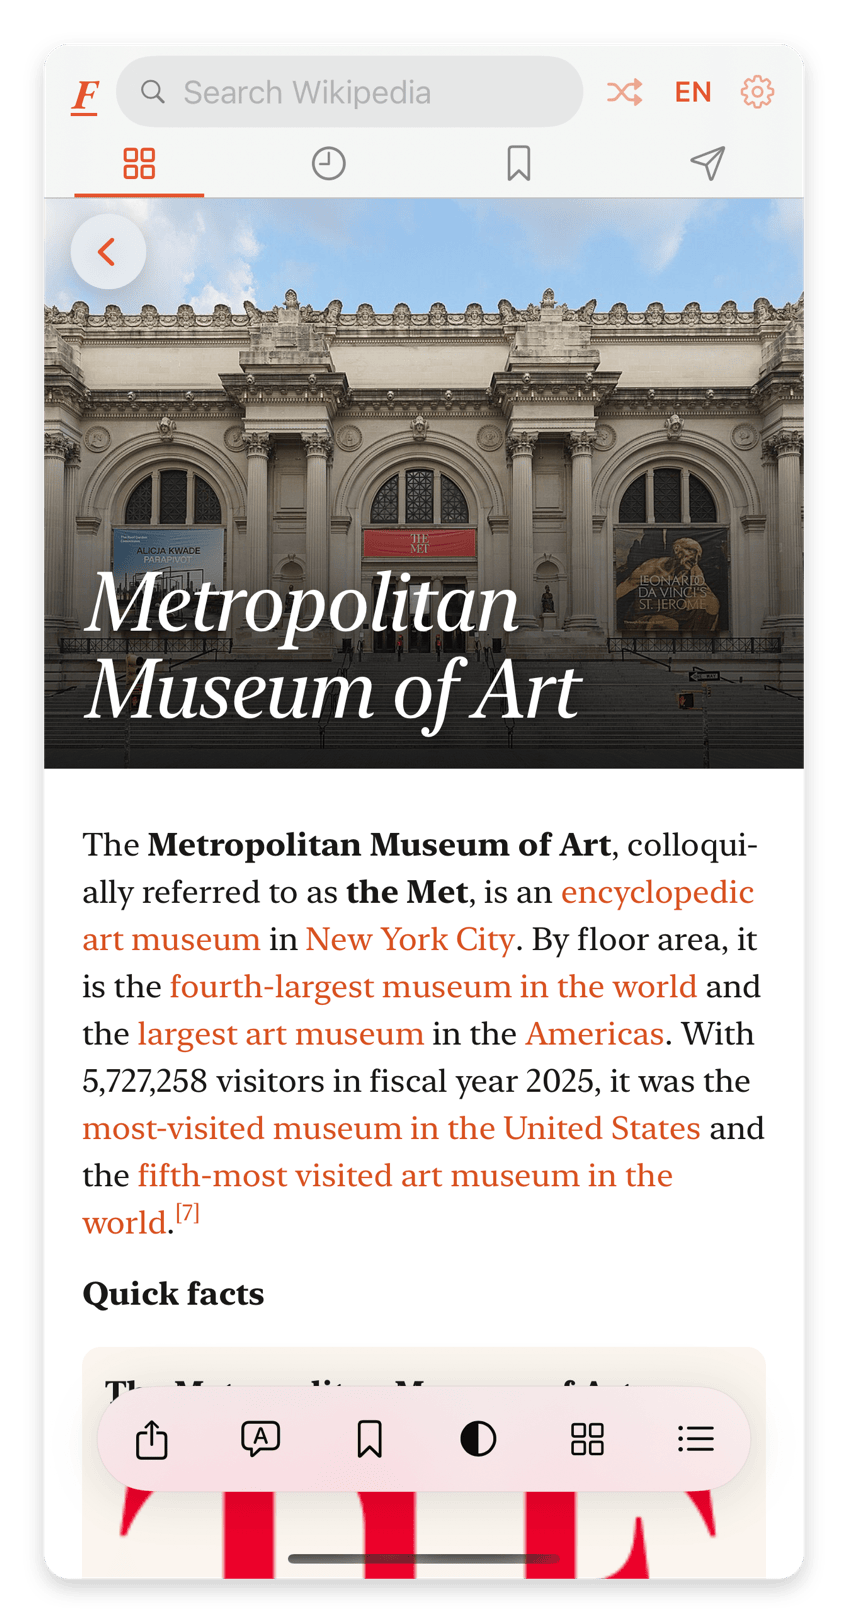
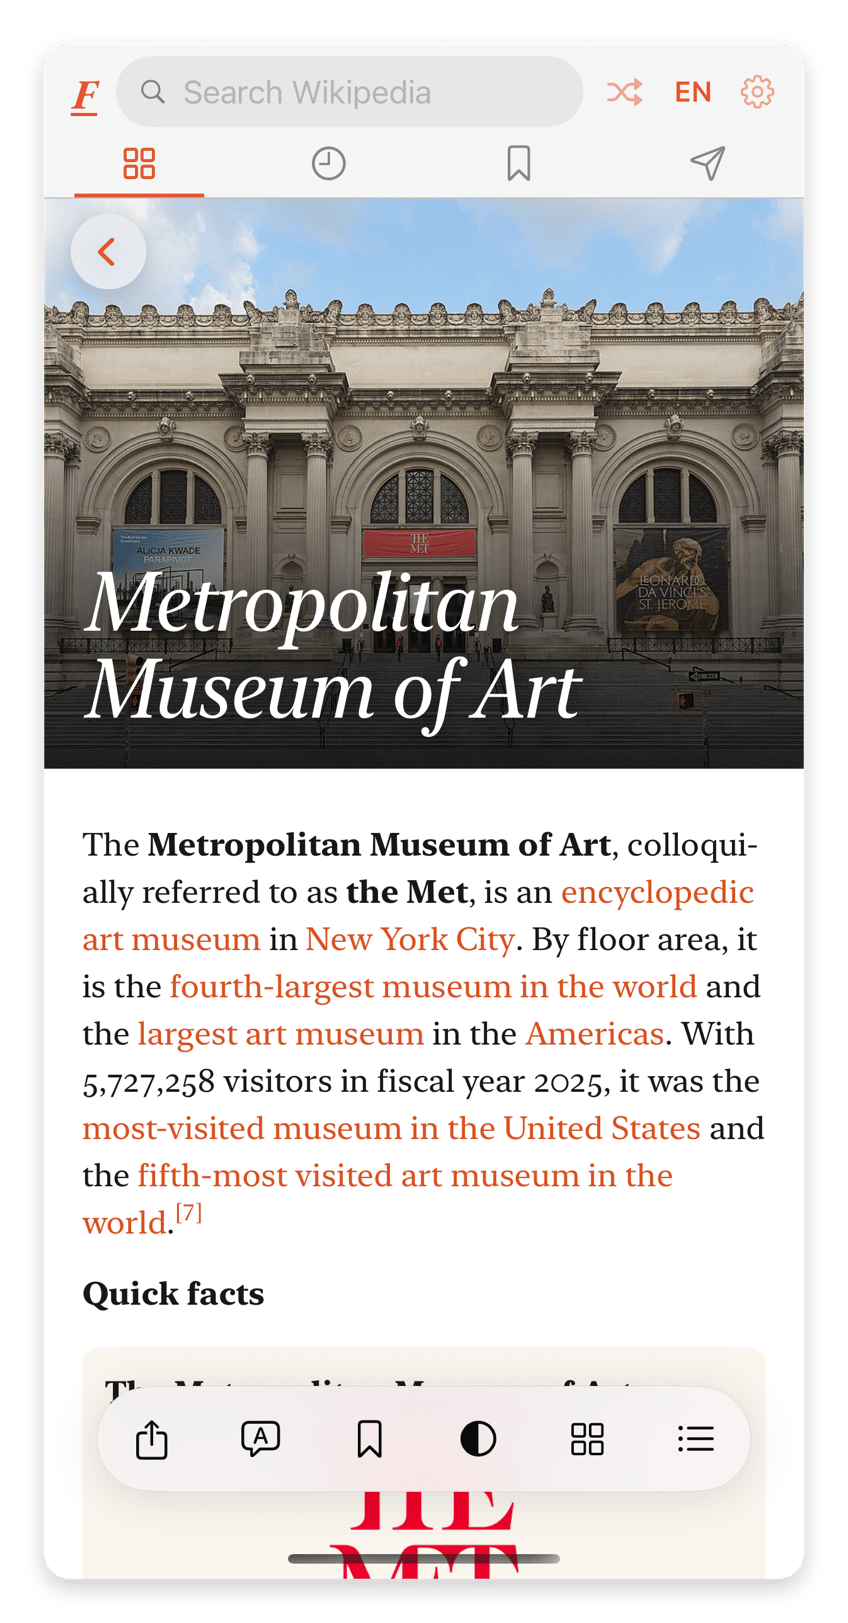
README: correct the typography facts, refresh the reader shot
The Typography section still described an intermediate state: 17/25 at
31rem, and Medium roman titles on the grid. It now states what ships:
1.52 leading at a 26rem cap, Medium Italic tile titles, the adaptive
tile scrim, and old-style figures in prose with lining tabular in data.

The reader screenshot predated the figure change; retaken so the page
shows the type it is describing. Also note captioned full-screen images
including the hero.

diff --git a/README.md b/README.md
@@ -25,7 +25,8 @@ personal recreation of the parts I used every day. It is an homage, not a replac
 - Reader: EB Garamond at a capped reading measure, locale-aware typography and
   hyphenation, on-device face-aware hero crops, light/sepia/dark themes, pinch
   to change text size, table of contents, and image gallery. A lead image
-  promoted to the hero is not repeated in the article body.
+  promoted to the hero is not repeated in the article body, and any image
+  opens full screen with its caption, the hero included.
 - Nearby: Wikipedia articles around you, on a map
 - Search, bookmarks, and reading history, stored locally with SwiftData
 - English and German Wikipedia, toggled from the header
@@ -37,12 +38,16 @@ Wikipedia's geosearch endpoint and nowhere further.
 
 ## Typography
 
-The settings follow the reading mode. Today and Nearby are scanning surfaces,
-so article titles use EB Garamond Medium roman. The reader defaults to 17/25
-with a 31rem maximum measure; its display title scales independently and stops
-at 120%, while body text retains the full setting range. Folio restores each
-article's document language before layout and applies locale-aware punctuation,
-so English and German hyphenation and quotation conventions remain distinct.
+The type follows the reading situation. Today and Nearby are scanning
+surfaces, so titles there use EB Garamond Medium, italic on the grid, and
+each Today tile darkens its image only as much as that image's measured
+brightness requires. The reader sets 17px at 1.52 line height with the
+measure capped at 26rem, about 66 characters. Prose uses old-style figures;
+tables and infoboxes keep lining tabular figures so columns align. The
+display title scales independently and stops at 120%, while body text keeps
+the full setting range. Folio restores each article's document language
+before layout and applies locale-aware punctuation, so English and German
+hyphenation and quotation conventions stay distinct.
 
 ## Building
 
